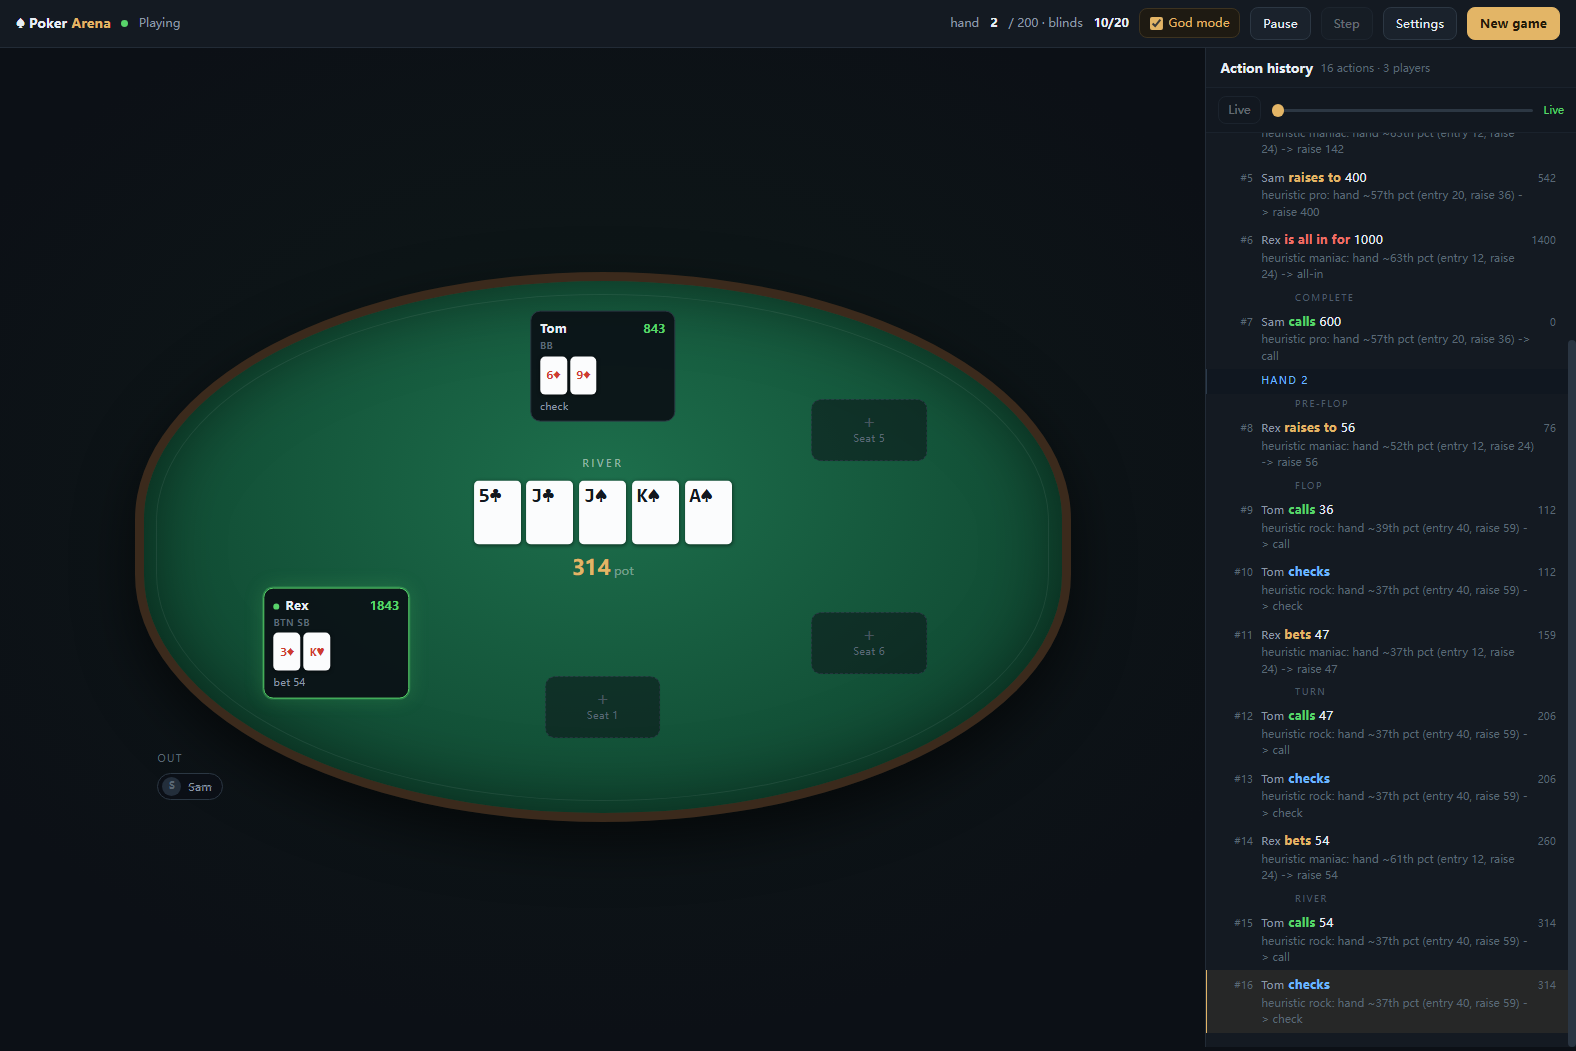
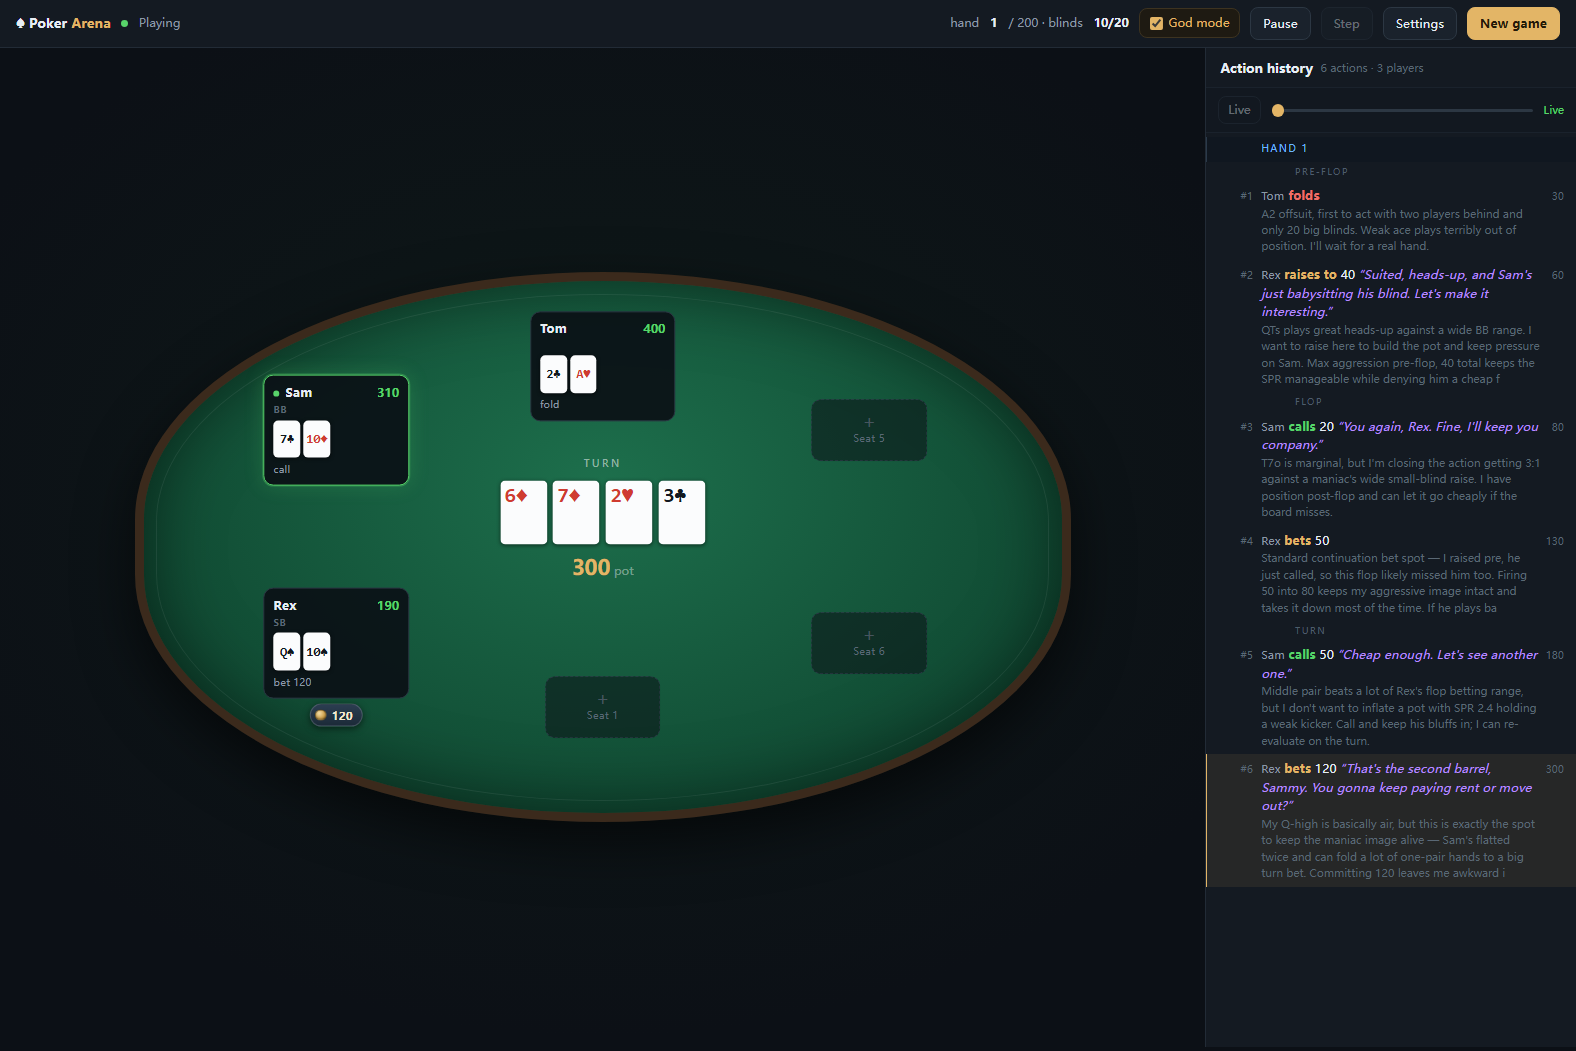
Re-shoot the screenshots from a game played by real models
The first two screenshots were taken with the offline opponents, so the reasoning
column read "heuristic maniac: hand ~37th pct (entry 12, raise 24) -> raise 51".
On a page that opens by introducing seven characters played by a language model,
that directly undercuts the claim: a visitor sees the character cards, then sees
what looks like a lookup table.

Both shots now come from games where the seats call the configured provider, and
the capture waits until the rail is showing genuine reasoning rather than the
offline fallback (it refuses any frame containing "heuristic ").

What the screenshots now show is the actual product. Rex, holding QTs, says
"Suited, heads-up, and Sam's just babysitting his blind. Let's make it
interesting" and then explains the sizing. Sam answers "You again, Rex. Fine,
I'll keep you company." Tom folds A2 offsuit, reasoning about 20 big blinds and
position. In the second shot the model even notices that god mode is showing it
the opponent's all-in.

Captions updated to match: the first now says you can read their minds rather
than just their bets, and both alt texts describe the reasoning and table talk
that are actually visible.

The persona-editor shot was already fine and is unchanged: it opens Settings on a
fresh page, so no game is running behind it.

Also checked, because the longer reasoning made it look like a possibility: the
action rail does not overflow horizontally. Measured scrollWidth == clientWidth
[…]

diff --git a/docs/index.html b/docs/index.html
@@ -378,11 +378,11 @@
     <p class="sub">The felt, the table talk, and the thinking &mdash; all in one window.</p>
 
     <figure class="shot">
-      <img src="01-table.png" alt="A hand in progress: five board cards, a bet in front of a player, and a panel on the right listing each numbered action together with the reasoning behind it.">
+      <img src="01-table.png" alt="A hand in progress: four board cards, a bet in front of a player, and a panel on the right listing each numbered action with the model's reasoning and what the player said out loud.">
       <figcaption>
-        <b>Every move comes with its reasons.</b> The panel on the right shows
-        what each player did and what they were thinking when they did it, so you
-        can see the bluff as it happens. Turn it off if you would rather just
+        <b>You can read their minds, not just their bets.</b> Every action comes
+        with the thinking behind it — the range they put you on, the price they
+        worked out, whether they meant it. Turn it off if you would rather just
         watch the cards.
       </figcaption>
     </figure>
@@ -391,8 +391,8 @@
       <img src="02-result.png" alt="The end of a hand: a card showing who won and the size of the pot, the final board, and each hand that was shown with its name.">
       <figcaption>
         <b>You always know how the hand ended.</b> The result stays up with a
-        countdown &mdash; longer when there is more to read &mdash; and you can
-        skip it with a click when you are ready for the next one.
+        countdown — longer when there is more to read — and you can skip it with
+        a click when you are ready for the next one.
       </figcaption>
     </figure>
 
